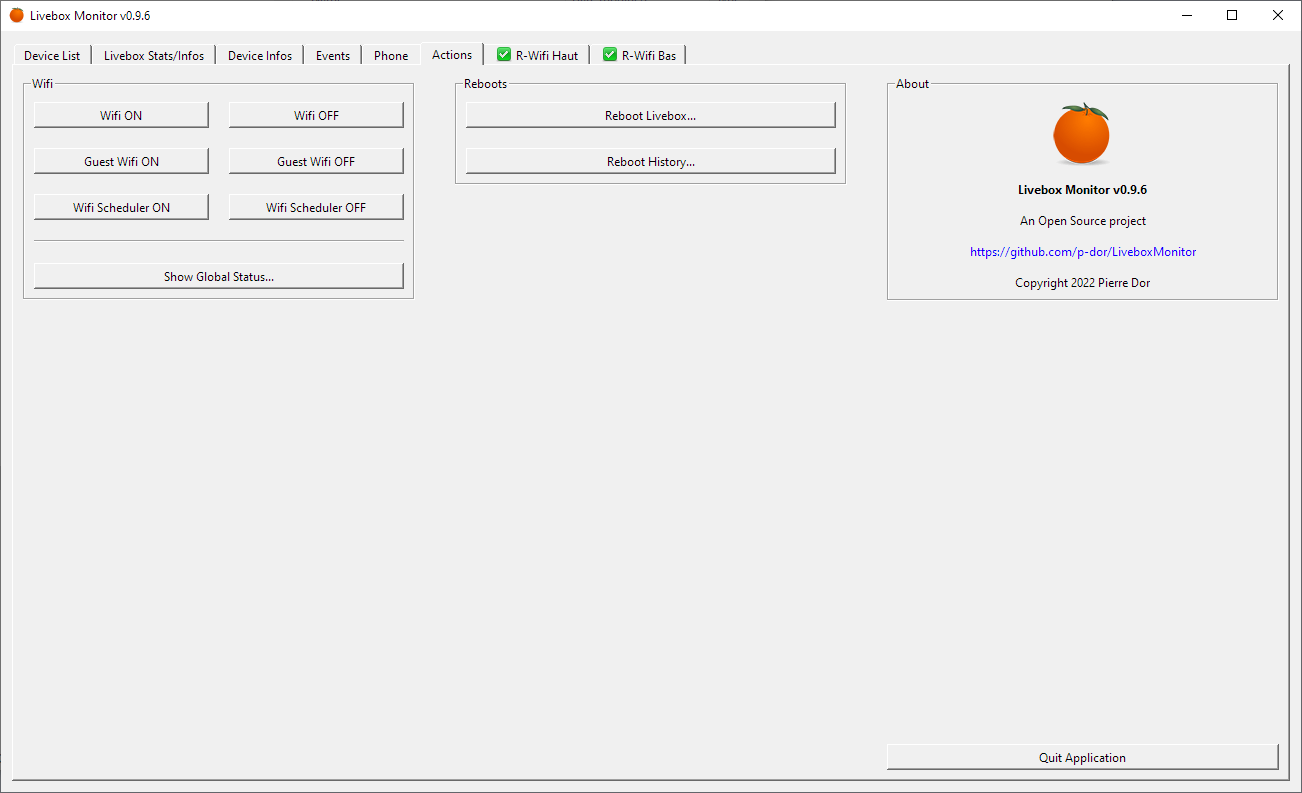
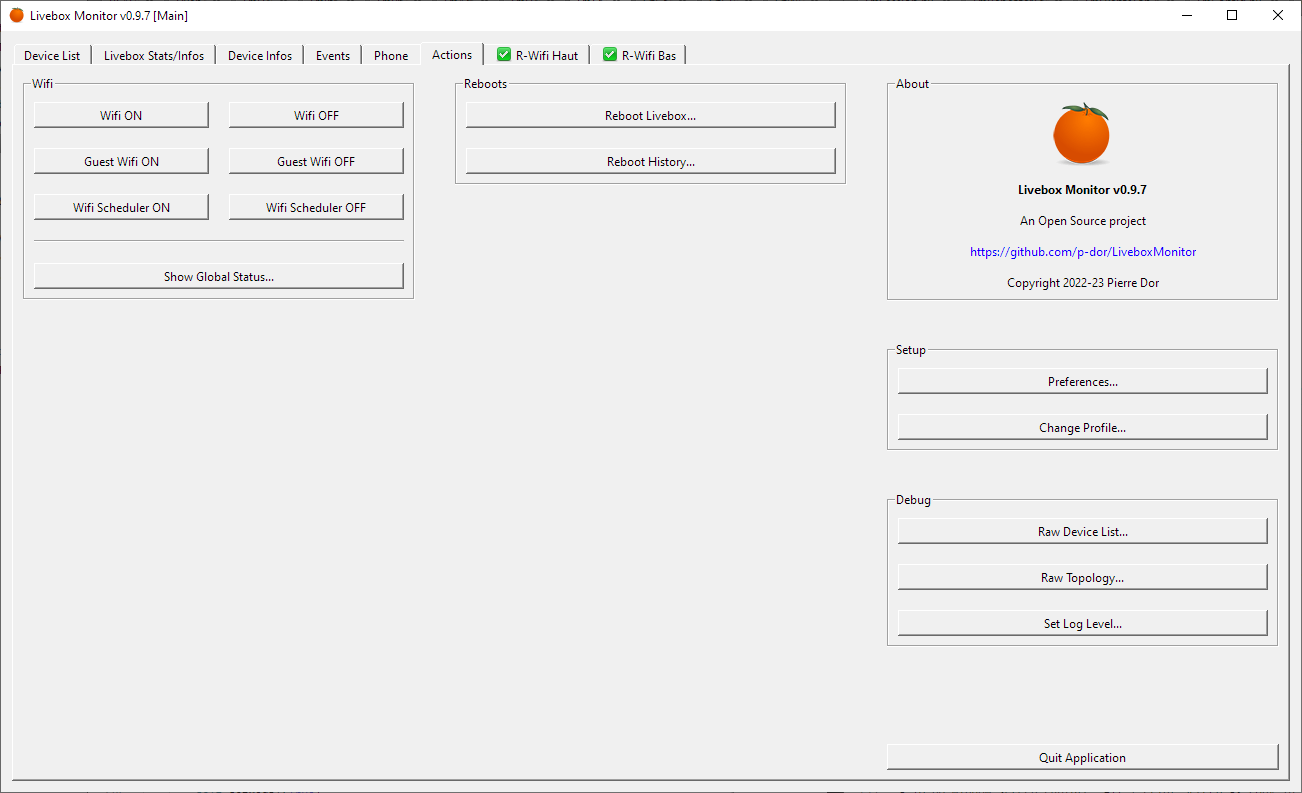
Release 0.9.7

diff --git a/__init__.py b/__init__.py
@@ -3,7 +3,7 @@
 __title__ = 'LiveboxMonitor'
 __description__ = 'Graphical user interface to monitor Livebox 5 & 6'
 __url__ = 'https://github.com/p-dor/LiveboxMonitor'
-__version__ = '0.9.7b'
+__version__ = '0.9.7'
 __build__ = 0x000907
 __author__ = 'Pierre Dor'
 __author_email__ = 'dorpierre@orange.fr'

diff --git a/README.md b/README.md
@@ -28,10 +28,15 @@ Les autres dépendances sont `requests`, `cryptography` et `python-dateutil`.
 ### Téléchargement
 
 Des programmes autonomes construits avec [PyInstaller](https://pyinstaller.org) sont disponibles pour les plateformes Windows & MacOS :
-- Windows : [Télécharger](https://github.com/p-dor/LiveboxMonitor/releases/download/0.9.6/LiveboxMonitor.exe)
-- Windows avec console : [Télécharger](https://github.com/p-dor/LiveboxMonitor/releases/download/0.9.6/LiveboxMonitor_Console.exe)
-- MacOS : [Télécharger](https://github.com/p-dor/LiveboxMonitor/releases/download/0.9.6/LiveboxMonitor.dmg)
-- MacOS avec console : [Télécharger](https://github.com/p-dor/LiveboxMonitor/releases/download/0.9.6/LiveboxMonitor_Console.dmg)
+- Windows : [Télécharger](https://github.com/p-dor/LiveboxMonitor/releases/download/0.9.7/LiveboxMonitor.exe)
+- Windows avec console : [Télécharger](https://github.com/p-dor/LiveboxMonitor/releases/download/0.9.7/LiveboxMonitor_Console.exe)
+- MacOS (Intel) : [Télécharger](https://github.com/p-dor/LiveboxMonitor/releases/download/0.9.7/LiveboxMonitor.dmg)
+- MacOS (Intel) avec console : [Télécharger](https://github.com/p-dor/LiveboxMonitor/releases/download/0.9.7/LiveboxMonitor_Console.dmg)
+
+
+## Discussion
+
+Un [fil de discussion](https://lafibre.info/orange-les-news/controler-son-reseau-livebox-5-ou-6/) est actif sur le forum [lafibre.info](https://lafibre.info). Il est possible d'y poster vos commentaires, résultats de tests ou de faire des demandes de fonctionnalités.
 
 
 ## Configuration
@@ -42,29 +47,20 @@ Le programme créé automatiquement dans son répertoire deux fichiers de config
 
 **Note** : lorsque les programmes construits avec [PyInstaller](https://pyinstaller.org) sont utilisés, les fichiers de configurations se trouvent dans les répertoires standards du système :
 - Windows : `%APPDATA%\LiveboxMonitor`
-- MacOS (Intel) : `~/Library/Application Support/LiveboxMonitor`
+- MacOS : `~/Library/Application Support/LiveboxMonitor`
 
 ### Le fichier Config.txt
 
-Le programme supporte ces clefs de configuration :  
-- `Livebox URL` : adresse de la Livebox. La valeur par défaut est `http://livebox.home/`.
-- `Livebox User` : login pour l'ouverture de session. Par défaut `admin`.
-- `Livebox Password` : le mot de passe crypté pour l'ouverture de session. Ce mot de passe est demandé automatiquement au lancement du programme s'il n'est pas renseigné ou s'il est erroné. La clef de cryptage du mot de passe peut être modifiée, elle est située dans le module `LmConfig.py`, variable `SECRET`.
-- `Filter Devices` : active (valeur `true`) ou pas (valeur `false`) le filtrage des appareils afin de ne pas montrer certains appareils "fantômes" détectés par la Livebox. Quand ce paramètre est activé le programme affiche les mêmes appareils que l'interface Web de la Livebox. Ce paramètre est activé par défaut.
-- `MacAddr Table File` : nom du fichier de stockage des noms d'appareils. Par défaut `MacAddrTable.txt`.
-- `MacAddr API Key` : le programme utilise l'API du site [macaddress.io](https://macaddress.io/) pour déterminer le fabriquant d'un appareil à partir de son adresse MAC. C'est un service gratuit, mais il faut créer un compte et indiquer ici l'API Key correspondante pour bénéficier de cette fonctionnalité.
-- `Phone Code` : indicatif téléphonique local, utile pour faire correspondre les appels téléphoniques avec les numéros de contacts. Par défaut le code de la France est utilisé, c'est à dire 33.
-- `List Header Height` : hauteur en pixels des entêtes de liste, par défaut 25.
-- `List Header Font Size` : taille de la police de caractères des entêtes de liste. Une valeur à zéro signifie d'utiliser la taille système. Par défaut ce paramètre est à zéro.
-- `List Line Height` : hauteur en pixels des lignes de liste, par défaut 30.
-- `List Line Font Size` :  taille de la police de caractères des lignes de liste. Une valeur à zéro signifie d'utiliser la taille système. Par défaut ce paramètre est à zéro.
-- `Repeaters` : cette partie est générée automatiquement par le programme si des mots de passe différents sont utilisés pour le ou les répéteurs Wifi Orange connectés. La structure de ce paramètre est aussi au format JSON, utilise pour clef les adresses MAC des répéteurs, et référence pour chaque répéteur les valeurs 'User' & 'Password' (encrypté de la même manière que le mot de passe de la Livebox).
+Ce fichier est géré automatiquement par l'application et il ne devrait pas être nécessaire de l'éditer. Les réglages principaux se font via le bouton `Preferences...` de l'onglet `Actions`.
+À savoir :  
+- Les mots de passe y sont stockés cryptés. La clef de cryptage du mot de passe peut être modifiée, elle est située dans le module `LmConfig.py`, variable `SECRET`.
+- La clef `Repeaters` est générée automatiquement par le programme si des mots de passe différents sont utilisés pour le ou les répéteurs Wifi Orange connectés. La structure de ce paramètre est aussi au format JSON, utilise pour clef les adresses MAC des répéteurs, et référence pour chaque répéteur les valeurs 'User' & 'Password'.
 
 ### Le fichier MacAddrTable.txt
 
 Ce fichier est géré automatiquement par l'application et il ne devrait pas être nécessaire de l'éditer.
 Les clefs correspondent aux adresses MAC des appareils et les valeurs au nom attribué.
-Tout appareil détecté dont l'adresse MAC n'est pas répertoriée sera affiché comme 'UNKNOWN' (inconnu) en rouge.  Cette fonctionnalité est surtout utile pour détecter les nouveaux appareils ou des tentatives d'intrusions.
+Tout appareil détecté dont l'adresse MAC n'est pas répertoriée sera affiché comme 'UNKNOWN' (inconnu) en rouge. Cette fonctionnalité est surtout utile pour détecter les nouveaux appareils ou des tentatives d'intrusions.
 
 Pourquoi utiliser une base de noms locale alors que la Livebox stocke aussi des noms ?
 - Parce que la Livebox "oublie" tout appareil qui ne s'est pas connecté depuis plus d'un mois.
@@ -81,7 +77,7 @@ La liste des appareils affiche les colonnes suivantes :
 - **Livebox Name** : nom de l'appareil tel que paramétré dans la Livebox et visible dans l'interface Web de la Livebox. Ce nom peut être attribué, changé ou supprimé via le bouton `Assign Name...` de l'onglet `Device Infos`.
 - **MAC** : adresse MAC, aussi appelée adresse physique de l'appareil.
 - **IP** : adresse IP v4 de l'appareil sur le LAN. Cette adresse s'affiche en caractères gras si cette adresse est réservée pour cet appareil dans la configuration DHCP de la Livebox. Et elle s'affiche en rouge si l'adresse n'est pas atteignable sur le réseau (unreacheable), typiquement lorsque l'appareil n'est pas actif.
-- **Link** : point de liaison de l'appareil avec le réseau. D'abord le nom de l'appareil, c'est à dire la Livebox elle-même ou le nom d'un des répéteurs Wifi Orange connectés, et ensuite l'interface sur cet appareil. `eth`  signifie une des prises Ethernet suivi du numéro de prise. `Wifi` signifie une connexion Wifi suivi par la bande de connexion, soit 2.4GHz soit 5GHz.
+- **Link** : point de liaison de l'appareil avec le réseau. D'abord le nom de l'appareil, c'est à dire la Livebox elle-même ou le nom d'un des répéteurs Wifi Orange connectés, et ensuite l'interface sur cet appareil. `eth` signifie une des prises Ethernet suivi du numéro de prise. `Wifi` signifie une connexion Wifi suivi par la bande de connexion, soit 2.4GHz soit 5GHz.
 - **A** : indique par une icône si l'appareil est actif ou non. Par défaut la liste est triée pour montrer d'abord les appareils actifs.
 - **Wifi** : qualité de la connexion Wifi.
 - **E** : indique par une icône avec un point d'exclamation ![Icone](http://p-dor.github.io/LiveboxMonitor/docs/Doc_Icon_Exclamation.png) lorsqu'un événement est reçu pour cet appareil. La liste détaillée des événements, ainsi que le contenu des événements eux-mêmes, peuvent être consulter via l'onglet `Events`.
@@ -99,8 +95,7 @@ L'onglet `Device List` propose les boutons suivants :
 - **`Refresh`** : permet de forcer le rafraichissement de la liste des appareils, non seulement dans cet onglet mais aussi dans les onglets `Device Infos` et `Events`. Utile par exemple si le programme est lancé alors que l'ordinateur sort de veille : des événements ayant probablement été raté par le programme, un rafraichissement permettra de retrouver une vue à jour.
 - **`Device Infos`** : permet de basculer dans l'onglet `Device Infos` pour l'appareil sélectionné et de voir directement ses informations.
 - **`Device Events`** : permet de basculer dans l'onglet `Events` pour l'appareil sélectionné et de voir directement les événements reçus le concernant.
-- **`Raw Device List...`** : permet d'afficher la réponse brute JSON de la Livebox concernant la liste des appareils connus. Utile pour avoir plus d'informations ou pour le débogage.
-- **`Raw Topology...`** : permet d'afficher la réponse brute JSON de la Livebox concernant la topologie de connexion des appareils connus. Utile pour avoir plus d'informations ou pour le débogage.
+- **`IPv6...`** : permet d'avoir le statut d'activation de l'IPv6, l'adresse IPv6 de la Livebox ainsi que son préfix, et la liste des appareils connectés ou non ayant une ou plusieurs IPv6 assignées.
 
 
 ## Livebox Stats/Infos - Statistiques de trafic et infos avancées de la Livebox
@@ -229,8 +224,8 @@ La liste des contacts, sur la droite, affiche les colonnes suivantes :
 - **Work** : numéro de téléphone professionnel.
 - **Ring** : type de sonnerie sélectionné parmi les 7 supportés par la Livebox.
 
-Un **double clic** sur un contact permet de facilement l'éditer.
-**Attention** : La Livebox supporte un maximum de 255 contacts.
+Un **double clic** sur un contact permet de facilement l'éditer.  
+**Attention** : la Livebox supporte un maximum de 255 contacts.
 
 ### Boutons
 Les boutons suivants sont proposés pour gérer la liste des contacts :
@@ -276,6 +271,35 @@ Les actions concernant les **Reboots** (redémarrages de la Livebox) :
     - **Boot Reason** : la raison de ce démarrage. Typiquement "NMC" indique un démarrage forcé par logiciel et "Unsupported chipset" un redémarrage causé par une coupure de courant ou l'interrupteur de la Livebox.
     - **Shutdown Date** : la date et heure de l'extinction.
     - **Shutdown Reason** : la raison de cette extinction. Typiquement vide pour une coupure de courant, "Upgrade" pour une mise à jour logiciel et "GUI_Reboot" pour un redémarrage demandé depuis l'interface Web ou LiveboxMonitor.
+
+Les actions concernant le **Setup** (réglages) :
+- **`Preferences...`** : permet d'afficher l'écran des préférences du programme.
+
+    ![Interface](http://p-dor.github.io/LiveboxMonitor/docs/Doc_Actions_Preferences.png)
+
+    Le programme supporte de pouvoir gérer plusieurs Livebox à l'aide de profils différents. Chaque profil doit avoir un nom unique. Par défaut un profil principal (main) est créé automatiquement. Si plusieurs profils sont configurés le nom du profil en cours est affiché dans le titre de la fenêtre principale entre crochets.
+    Au lancement du programme, le profil par défaut est utilisé. Si aucun profil par défaut n'est configuré ou si la touche `Ctrl` est enfoncée le programme affiche un dialogue pour sélectionner le profil à utiliser.
+    Pour chaque profil il est possible de configurer :
+    - `Name` : nom du profil.
+    - `Livebox URL` : adresse de la Livebox. La valeur par défaut est `http://livebox.home/`.
+    - `Livebox User` : login pour l'ouverture de session. Par défaut `admin`. Le mot de passe est demandé automatiquement lors de l'utilisation du profil s'il n'est pas renseigné ou s'il est erroné.
+    - `Filter Devices` : active le filtrage des appareils afin de ne pas montrer certains appareils "fantômes" détectés par la Livebox. Quand ce paramètre est activé le programme affiche les mêmes appareils que l'interface Web de la Livebox. Ce paramètre est activé par défaut.
+    - `MacAddr Table File` : nom du fichier de stockage des noms d'appareils. Par défaut `MacAddrTable.txt`. Voire `Le fichier MacAddrTable.txt` de la section `Configuration` pour plus d'explications.
+    - `Default` : indique qu'il s'agit du profil par défaut à utiliser au lancement du programme. Il ne peut y avoir qu'un seul profil par défaut.
+    Les préférences générales permettent de régler :
+    - `macaddress.io API Key` : le programme utilise l'API du site [macaddress.io](https://macaddress.io/) pour déterminer le fabriquant d'un appareil à partir de son adresse MAC. C'est un service gratuit, mais il faut créer un compte et indiquer ici l'API Key correspondante pour bénéficier de cette fonctionnalité.
+    - `Intl Phone Code` : indicatif téléphonique local, utile pour faire correspondre les appels téléphoniques avec les numéros de contacts. Par défaut le code de la France est utilisé, c'est à dire 33.
+    - `List Header Height` : hauteur en pixels des entêtes de liste, par défaut 25.
+    - `List Header Font Size` : taille de la police de caractères des entêtes de liste. Une valeur à zéro signifie d'utiliser la taille système. Par défaut ce paramètre est à zéro.
+    - `List Line Height` : hauteur en pixels des lignes de liste, par défaut 30.
+    - `List Line Font Size` : taille de la police de caractères des lignes de liste. Une valeur à zéro signifie d'utiliser la taille système. Par défaut ce paramètre est à zéro.
+- **`Change Profile...`** : affiche un dialogue permettant de changer le profil en cours et de relancer le programme.
+
+Les actions techniques de **Debug** (débogage) :
+- **`Raw Device List...`** : permet d'afficher la réponse brute JSON de la Livebox concernant la liste des appareils connus. Utile pour avoir plus d'informations ou pour le débogage.
+- **`Raw Topology...`** : permet d'afficher la réponse brute JSON de la Livebox concernant la topologie de connexion des appareils connus. Utile pour avoir plus d'informations ou pour le débogage.
+- **`Set Log Level...`** : permet de changer le niveau de logs dans la console. Ce niveau est stocké dans la configuration du programme et sera donc conservé au prochain lancement du programme.
+
 
 Autres actions :
 - **Quit Application** : pour quitter l'application. Strictement équivalent à fermer la fenêtre de l'application.
